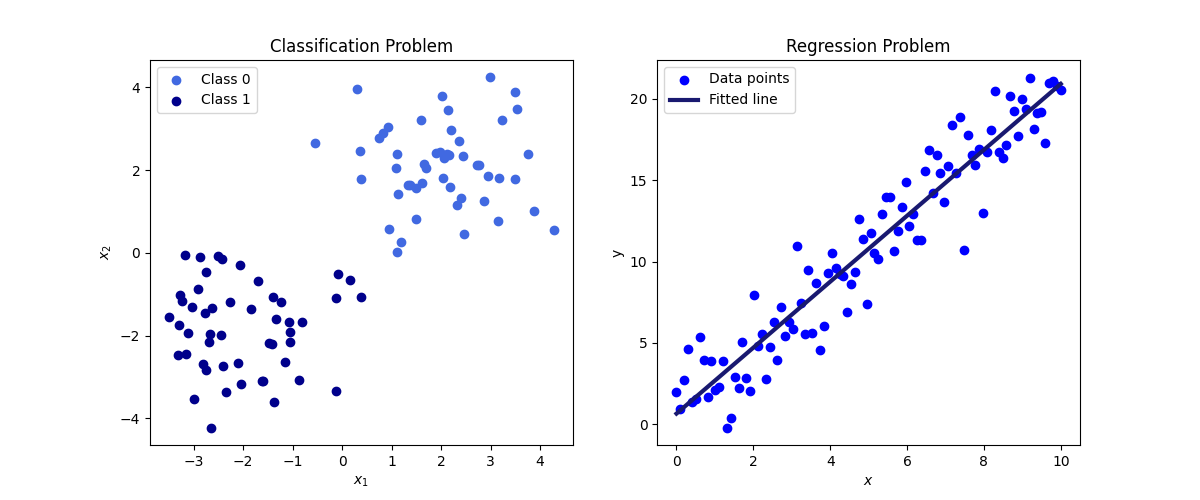
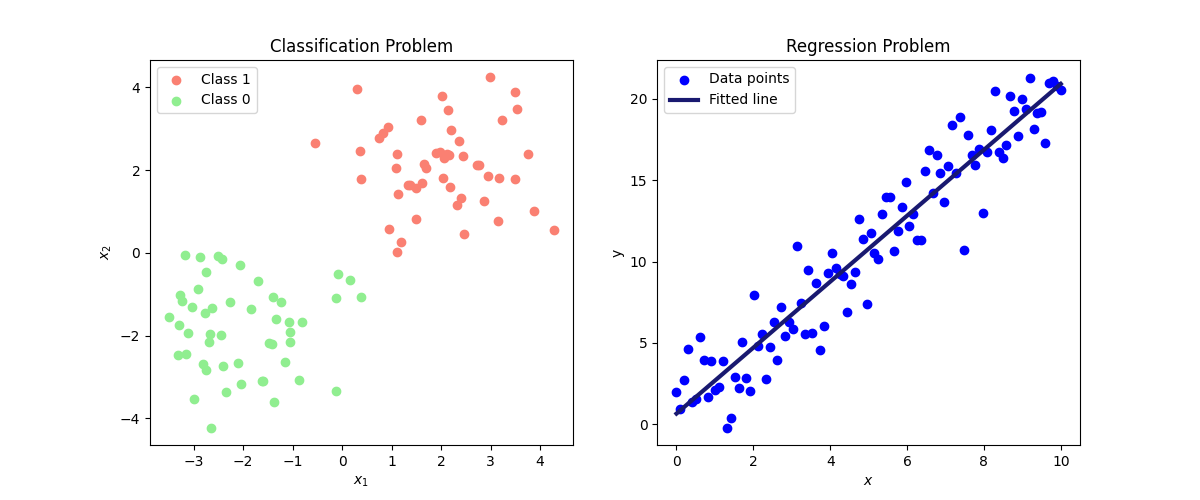
added new figures to the course which are more streamlined in terms of design

diff --git a/images/class_reg_illustration.py b/images/class_reg_illustration.py
@@ -12,8 +12,8 @@ X1 = np.random.randn(50, 2) + np.array([2, 2])
 X2 = np.random.randn(50, 2) + np.array([-2, -2])
 
 # Plot the data
-ax1.scatter(X1[:, 0], X1[:, 1], color='royalblue', label='Class 0')
-ax1.scatter(X2[:, 0], X2[:, 1], color='darkblue', label='Class 1')
+ax1.scatter(X1[:, 0], X1[:, 1], color='salmon', label='Class 1')
+ax1.scatter(X2[:, 0], X2[:, 1], color='lightgreen', label='Class 0')
 ax1.set_title('Classification Problem')
 ax1.set_xlabel('$x_1$')
 ax1.set_ylabel('$x_2$')

diff --git a/images/Log_reg_decision_boundary.py b/images/Log_reg_decision_boundary.py
@@ -39,7 +39,7 @@ def sigmoid(z):
 plt.axvline(x=0.0, color='grey', linestyle=':', linewidth=1.5)
 
 x = np.linspace(-0.3, 0.3)
-custom_palette = {0: "salmon", 1: "lightgreen"}
+custom_palette = {0: "lightgreen", 1: "salmon"}
 sns.stripplot(data=games, x="GOAL_DIFF", y="WON", hue="Predicted Class", orient="h", palette=custom_palette)
 plt.plot(x, sigmoid(model.intercept_ + model.coef_[0]*x), "k")
 plt.gca().invert_yaxis();
